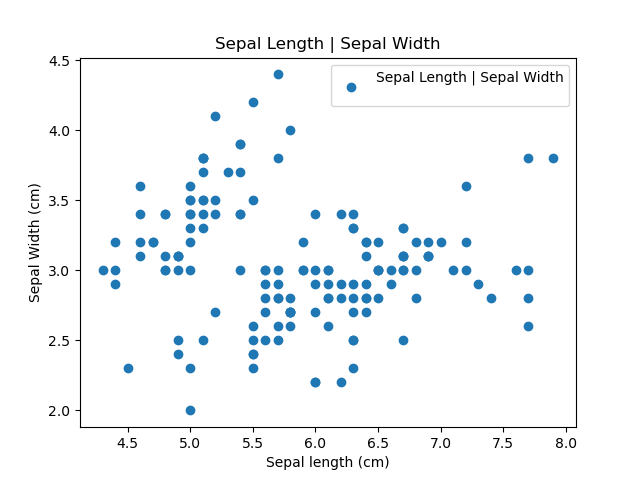
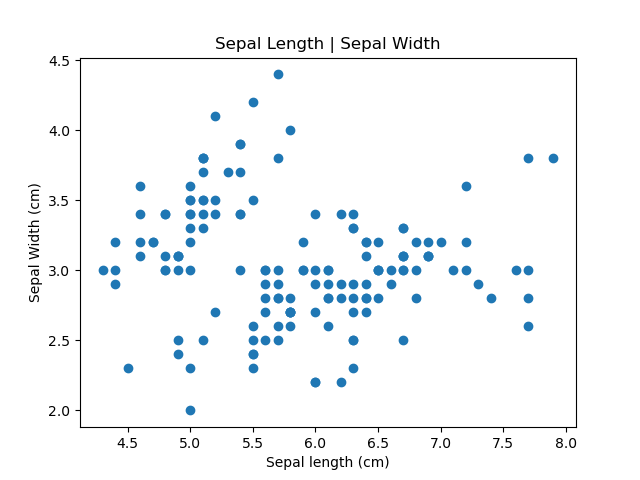
Added x and y axis labels for seaborn scatterplots

Changed region(s): [[0.5938, 0.125, 0.875, 0.1875], [0.5312, 0.1562, 0.5625, 0.1875]]

diff --git a/analysis.py b/analysis.py
@@ -154,42 +154,53 @@ plt.scatter(iris_csv['Sepal Length'], iris_csv['Sepal Width'], label='Sepal Leng
 plt.title('Sepal Length | Sepal Width')
 plt.xlabel('Sepal length (cm)')
 plt.ylabel('Sepal Width (cm)')
-plt.legend()
+#plt.legend()
 plt.savefig("Sepal_Length_Sepal_Width_Scatterplot.png")
 #Wtite to the text file
 data = "\n\tSepal_Length_Sepal_Width_Scatterplot.png"
 text_write(data)
 
-#For the scatter plot to compare Petal Width and Petal Length
+#Create a scatter plot to compare Petal Width and Petal Length
 plt.clf()
 plt.scatter(iris_csv['Petal Length'], iris_csv['Petal Width'], label='Petal Length | Petal Width\n')
 plt.title('Petal Length | Petal Width')
 plt.xlabel('Petal length (cm)')
 plt.ylabel('Petal Width (cm)')
-plt.legend()
+#plt.legend()
 plt.savefig("Petal_Length_Petal_Width_Scatterplot.png")
 #Wtite to the text file
 data = "\n\tPetal_Length_Petal_Width_Scatterplot.png"
 text_write(data)
 
 #Scatterplots using seaborn with colours for each flower type
-#https://codesolid.com/matplotlib-vs-seaborn/#aioseo-scatter---matplotlib-vs-seaborn
 plt.clf()
+#Define the data for x and y axis
 x_axis = iris_csv['Petal Length']
 y_axis = iris_csv['Petal Width']
+#Add a title and lables
 plt.title("Petal length | Petal Width")
+plt.xlabel('Petal Length (cm)')
+plt.ylabel('Petal Width (cm)')
+#Create and save the plot
 sns.scatterplot(x=x_axis, y=y_axis, hue=iris_csv.Class, s=90)
 plt.savefig("Petal_Length_Petal_Width_Scatterplot_Seaborn.png")
-data = "\n\tPetal_Length_Petal_Width_Scatterplot - with colours.png\n\n"
+#Wtite to the text file
+data = "\n\tPetal_Length_Petal_Width_Scatterplot - by flower type.png"
 text_write(data)
 
 plt.clf()
+#Define the data for x and y axis
 x_axis = iris_csv['Sepal Length']
 y_axis = iris_csv['Sepal Width']
+#Add a title and lables
 plt.title("Sepal length | Sepal width")
+plt.xlabel('Petal Length (cm)')
+plt.ylabel('Petal Width (cm)')
+#Create and save the plot
 sns.scatterplot(x=x_axis, y=y_axis, hue=iris_csv.Class, s=90)
 plt.savefig("Sepal_Length_Sepal_Width_Scatterplot_Seaborn.png")
-data = "\n\tSepal_Length_Sepal_Width_Scatterplot - with colours.png\n\n"
+#Wtite to the text file
+data = "\n\tSepal_Length_Sepal_Width_Scatterplot - by flower type.png"
 text_write(data)
 
 #Split out each flower type into seperate variables and print a sample histogram plot with 3 data elements
@@ -197,12 +208,15 @@ iris_setosa=iris_csv.loc[iris_csv["Class"]=="Iris-setosa"]
 iris_virginica=iris_csv.loc[iris_csv["Class"]=="Iris-virginica"]
 iris_versicolor=iris_csv.loc[iris_csv["Class"]=="Iris-versicolor"]
 plt.clf()
+#Sort the data
 iris_setosa.sort_values("Petal Length")
 iris_virginica.sort_values("Petal Length")
 iris_versicolor.sort_values("Petal Length")
+#Add title and labels
 plt.title("Petal Length Comparison")
 plt.xlabel("Length (cm)")
 plt.ylabel("Frequency")
+#create the plots
 plt.hist(iris_setosa["Petal Length"],label='iris_setosa')
 plt.hist(iris_virginica["Petal Length"],label='iris_virginica')
 plt.hist(iris_versicolor["Petal Length"],label='iris_versicolor')
